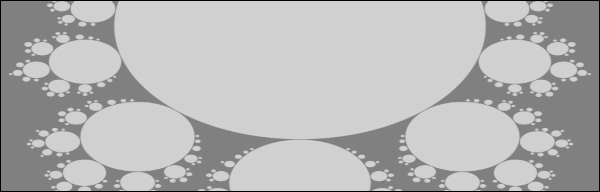
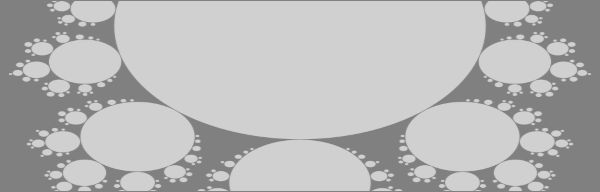
Add files via upload

Changed region(s): [[0.0, 0.0, 1.0, 1.0]]

diff --git a/src/orbital.js b/src/orbital.js
@@ -653,6 +653,9 @@ function Orbital (divContainer, data, quant, scale, ovalFillColor, ovalStrokeCol
 
             ctx.globalAlpha = 1;
             
+            if (data.backColor)
+                fill = data.backcolor;
+
             var magn = r / (rr * ratio);
             
             var lw = lineWidth * rr / 2048 * magn;

diff --git a/changelog.md b/changelog.md
@@ -47,5 +47,8 @@
     - mouse wheel event resembles pinch-zoom  
     - updated scaling policy  
     - directional shift for larger scaling  
-    - UX improvement  
+
+- v 0.7 - alpha
+    - mobile UX improvement  
+    - shadow, border, backcolor  
 

diff --git a/README.md b/README.md
@@ -1,4 +1,4 @@
-# Fractarchy-CMS (v0.5 - update (2))
+# Fractarchy-CMS (v0.7 - alpha)
 
 tags: content-management-system, headless-cms, flat-file-cms, zooming-elements-based, parent-child-orbiting, fractal-structure-inspired
 
